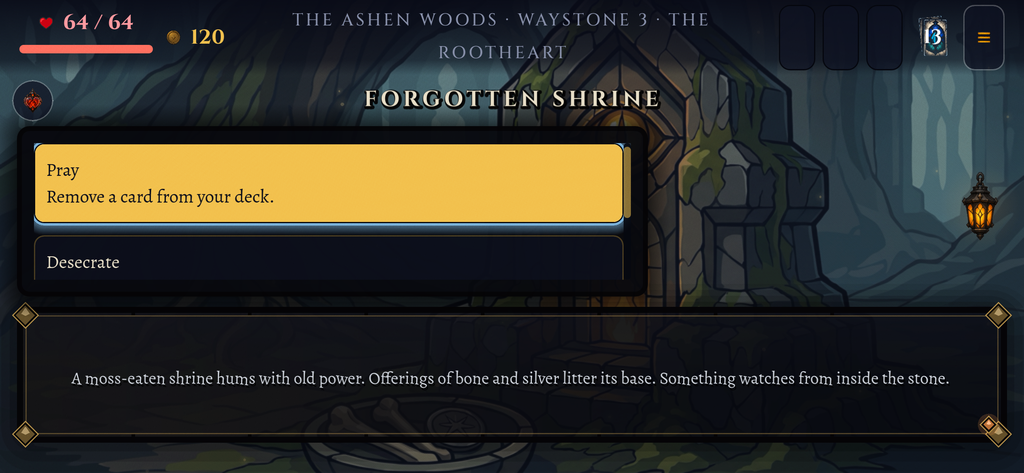
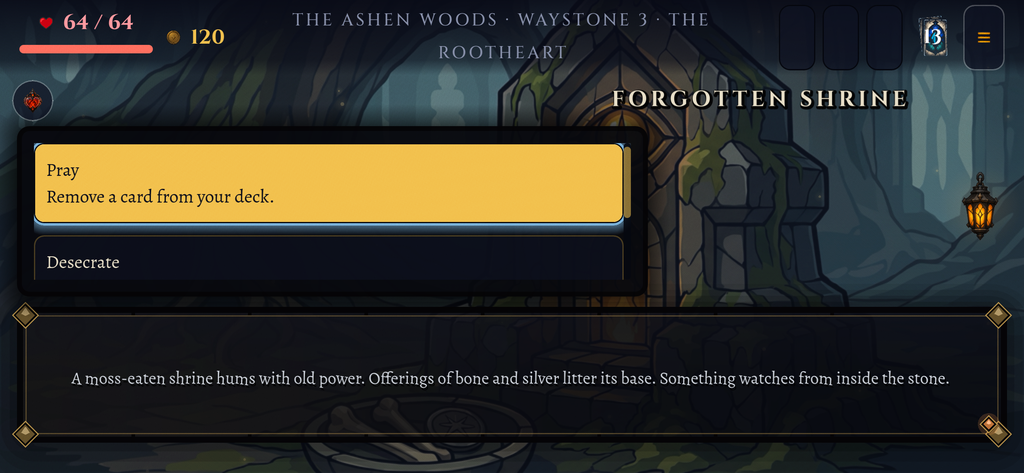
fix(event): seat the phone title clear of the relic row (#595 review)
The review found the phone title, seated under the top bar, sat in the
relic row's band: nine relics printed over it. The title now centres in
the right half of the stage, which the row does not reach until about
fourteen seats, and the containment test dresses the phone with twelve
relics (thirteen seats) so it can see the case.

A missing-art relic glyph grew a phone seat from 34 to 37 px, so the row
ended at y 103 and not the 100 relic_row_bottom() names; the glyph now
sits in a bare Control and the seat keeps its side.

Claude-Session: https://claude.ai/code/session_01HPnCD3zFM7qazJmHdVbH6K

Changed region(s): [[0.3438, 0.1776, 0.9062, 0.2368], [0.9375, 0.8879, 0.9688, 0.9175]]

diff --git a/docs/reviews/595/README.md b/docs/reviews/595/README.md
@@ -5,7 +5,8 @@ Two older layout defects, seen in every phone capture taken for #594 and not cau
 ## The change
 
 - `RunHud` names the two edges the event screen needs: `bar_bottom()` (62 px on the phone) and `relic_row_bottom()` (the collection's first row, 100 px on the phone), plus the `COLLECTION_GAP` and `relic_side()` the HUD already used inline.
-- `EventScreen._layout()`, phone only: the title takes a band under the top bar (y 66, was 13.65), and the choices' window starts under the relic row (y 104 at the latest, was 51.65 to 88.5). The pad and desktop arms are the code they were.
+- `EventScreen._layout()`, phone only: the title takes a band under the top bar (y 66, was 13.65), centred in the right half of the stage (x 422 to 830), which the relic row, growing from the left edge, does not reach until it holds about fourteen seats; and the choices' window starts under the relic row (y 104, was 51.65 to 88.5). The pad and desktop arms are the code they were.
+- `RunHud._add_fallback()` holds a missing-art glyph in a bare `Control`, so its line height cannot grow a phone relic seat to 37 px (the row then ended at y 103, not the 100 `relic_row_bottom()` names). Seats with art, and every pad and desktop seat, are unchanged.
 
 ## Captures (`--shape=... --vp=...` through `tools/shot.sh`, the Forgotten Shrine on the Kindling scenario of `docs/design/2026-09-29-dusk-flame/event/README.md`, shrunk to 1024 px)
 
@@ -14,20 +15,24 @@ Two older layout defects, seen in every phone capture taken for #594 and not cau
 | Phone | [`before-handset.png`](before-handset.png) | [`after-handset.png`](after-handset.png) |
 | Pad | [`before-pad.png`](before-pad.png) | [`after-pad.png`](after-pad.png) |
 
-Phone, before: the title wraps under the location line and the relic icon sits on the window's left edge. Phone, after: the location line has the bar to itself, the title has its own band under it, and the window starts under the relic. Pad: the same picture (the ambient particles differ frame to frame, so the captures are not pixel-equal; the geometry below is the proof).
+Phone, before: the title wraps under the location line and the relic icon sits on the window's left edge. Phone, after: the location line has the bar to itself, the title has its own band under it at the right, and the window starts under the relic. Pad: the same picture (the ambient particles differ frame to frame, so the captures are not pixel-equal; the geometry below is the proof).
 
 ## Deterministic proof
 
-- `tests/event_phone_containment.gd` (new, wired into CI as `run_event_containment`): all 11 events, both locales, both the choice screen and the result beat, on the phone, pad and desktop shapes, under a live HUD dressed with a phial rack, an omen and five relics. It holds the title clear of every HUD element, the window clear of every HUD element, both inside the stage, the window above the prose pane, the first choice whole in the window and the last brought into view by focus. On origin/main it fails on the phone (title over the location line in every event; window over the relic row in every event; window over the top bar in the events that scroll) and passes on the pad and desktop; with the change it prints `PASS event containment (1716 rects, en + zh-Hant, 11 events, 3 shapes)`.
+- `tests/event_phone_containment.gd` (new, wired into CI as `run_event_containment`): all 11 events, both locales, both the choice screen and the result beat, on the phone, pad and desktop shapes, under a live HUD dressed with a phial rack and an omen, and twelve relics on the phone (thirteen seats, ending near x 476) or five on the pad and desktop. It holds the title clear of every HUD element, the window clear of every HUD element, both inside the stage, the window above the prose pane, the first choice whole in the window and the last brought into view by focus. On origin/main it fails on the phone (title over the location line in every event; window over the relic row in every event; window over the top bar in the events that scroll) and passes on the pad and desktop; with the change it prints `PASS event containment (2024 rects, en + zh-Hant, 11 events, 3 shapes)`.
 - Pad and desktop unchanged: the title, window and pane rects of every event, choice screen and beat, on the pad and the desktop, were dumped from origin/main and from this branch (66 rows with the phone's) and the pad and desktop rows are identical.
 
 ## Phone geometry, before and after (px)
 
 | | Title top | Window top | Window height | Scroll view |
 |---|---|---|---|---|
-| Before | 13.65 | 51.65 or 88.5 | 192.85 or 156 | 164.85 or 128 |
-| After | 66 | 104 | 140.5 | 112.5 |
+| Before | 13.65 (x 84 to 759, centred) | 51.65 or 88.5 | 192.85 or 156 | 164.85 or 128 |
+| After | 66 (x 422 to 830, centred in the right half) | 104 | 140.5 | 112.5 |
 
 ## Trade-off
 
 The relic row and the title take the top 104 px, so on the phone the choices' window is 140.5 px tall on every event: the first choice is whole and the next shows in part, and the rest are reached by scrolling, which the window already does and focus already follows. Before, the two-choice events showed both in full, because the window rose over the HUD to do it.
+
+## Not fixed here
+
+On the pad a title centred on the stage already meets the ninth relic seat (the same at origin/main). It is outside #595's phone scope and the pad is to stay unchanged, so the test holds the pad and desktop to the modest collection; it wants its own issue.
